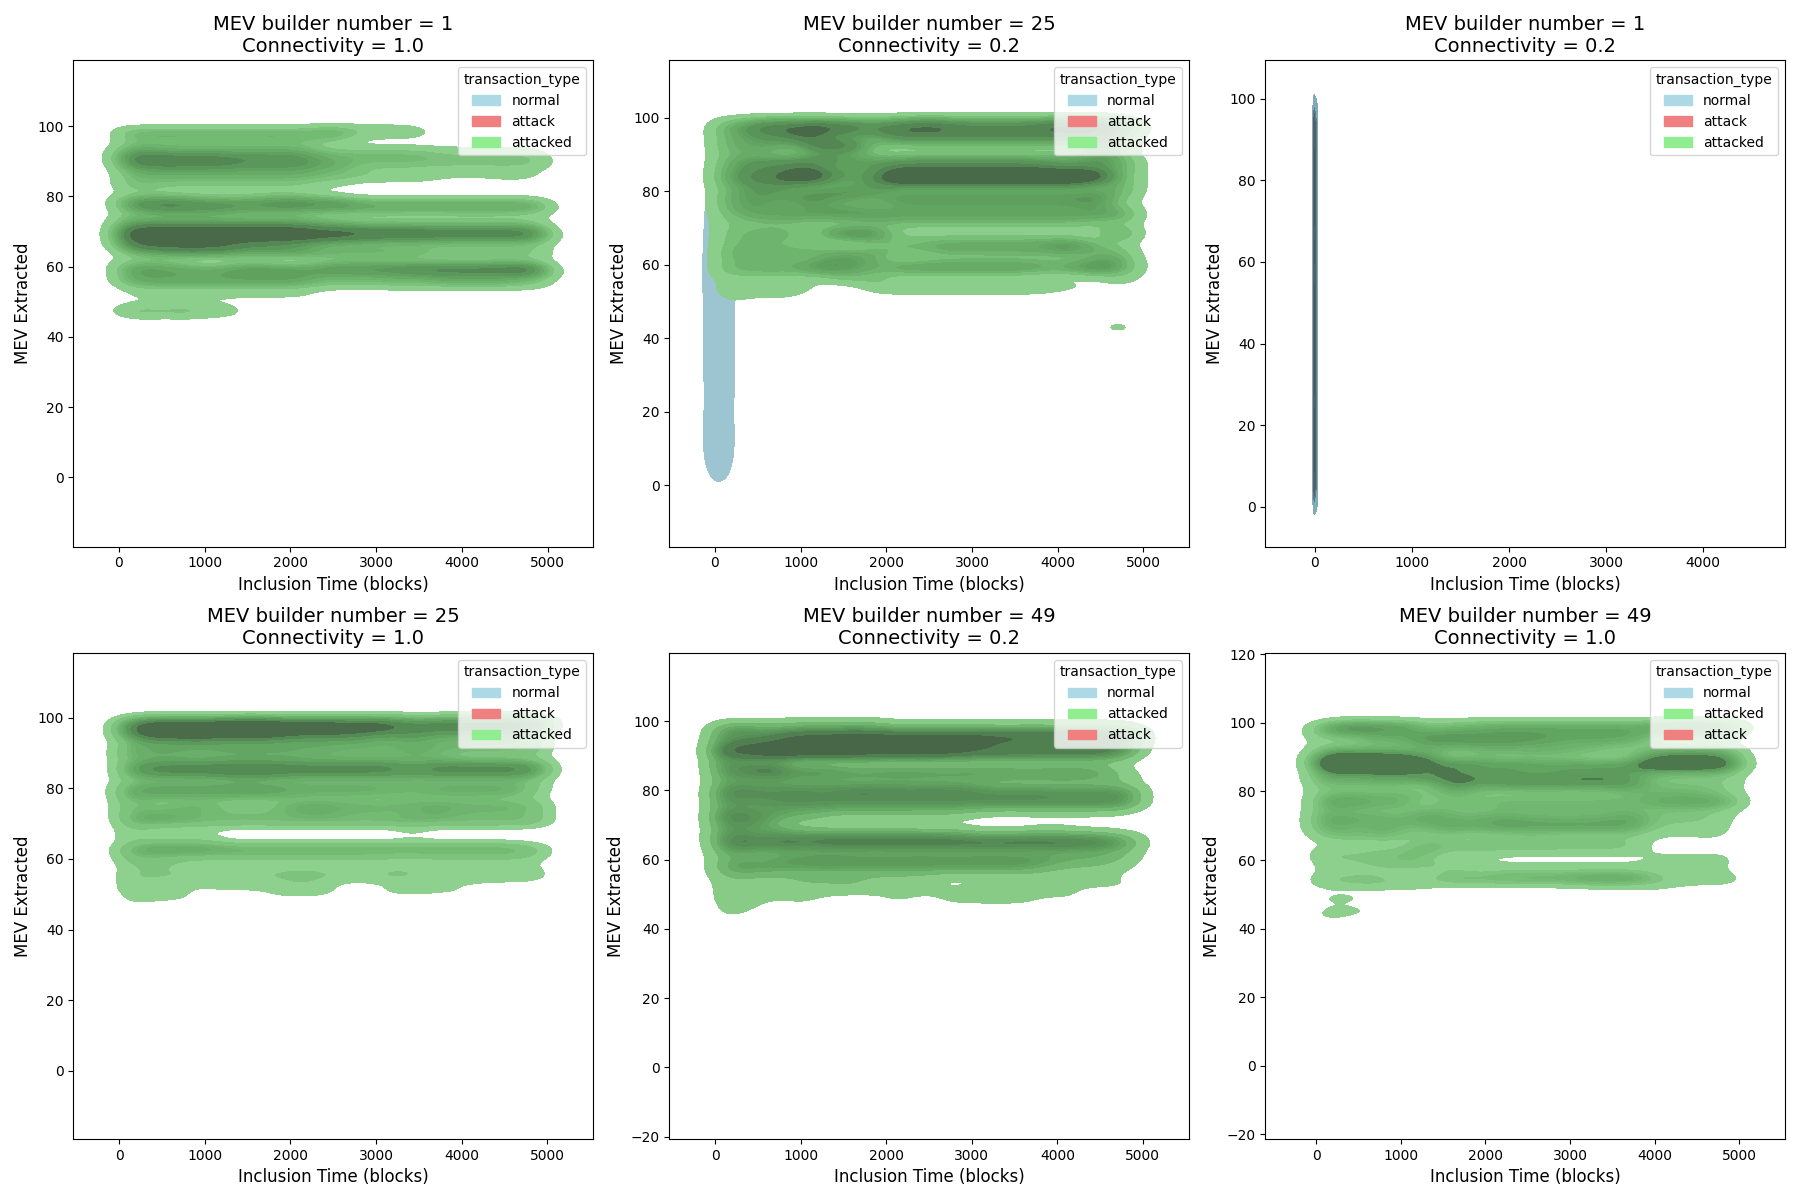
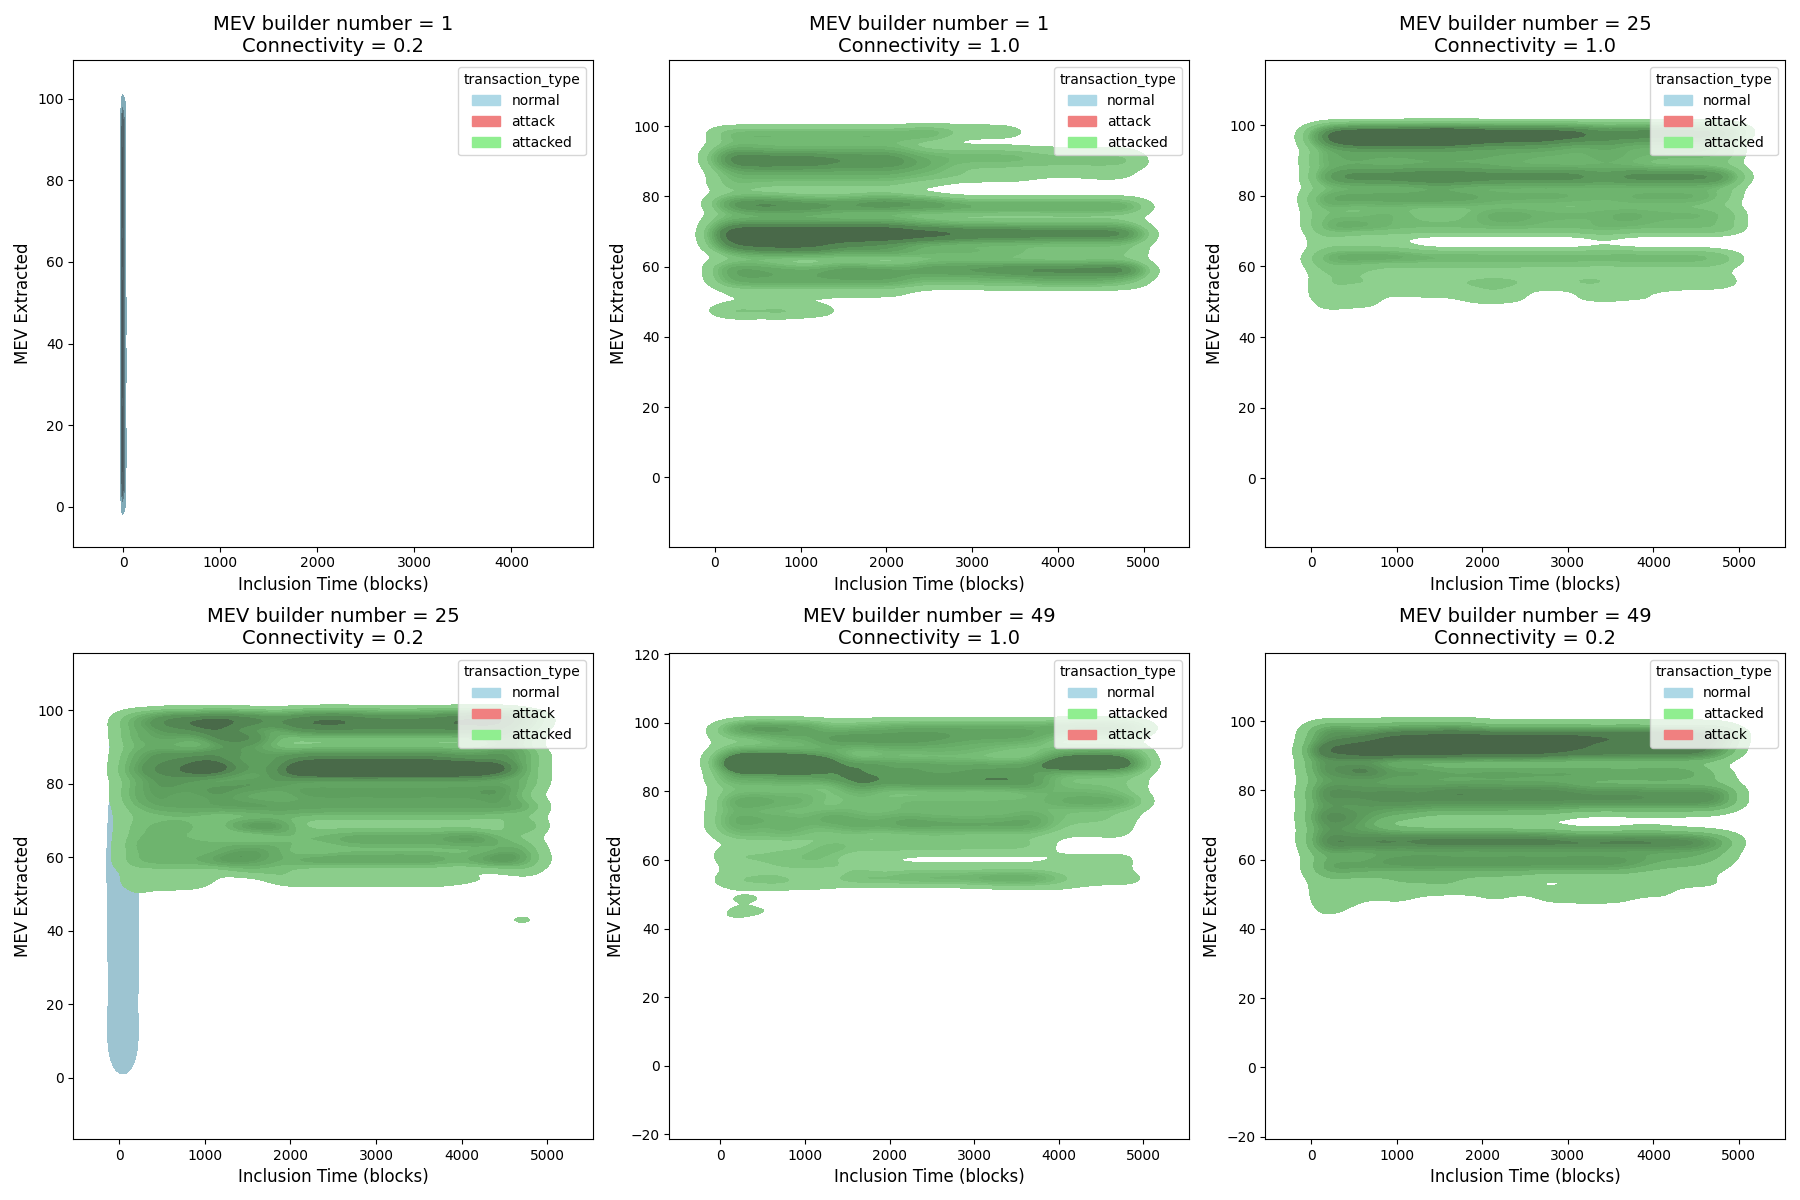
reorder

diff --git a/plots/tx_plot.py b/plots/tx_plot.py
@@ -133,8 +133,6 @@ def main():
         "mev_builders=49characteristic=1.csv"
     ]
 
-    # Sort the representative files based on MEV builders and connectivity
-    representative_files.sort(key=lambda x: (int(x.split('=')[1].split('characteristic')[0]), float(x.split('=')[2].replace('.csv', ''))))
 
     file_paths = [os.path.join(folder_path, rep_file) for rep_file in representative_files]
     data_dict = process_files_in_parallel(file_paths)
